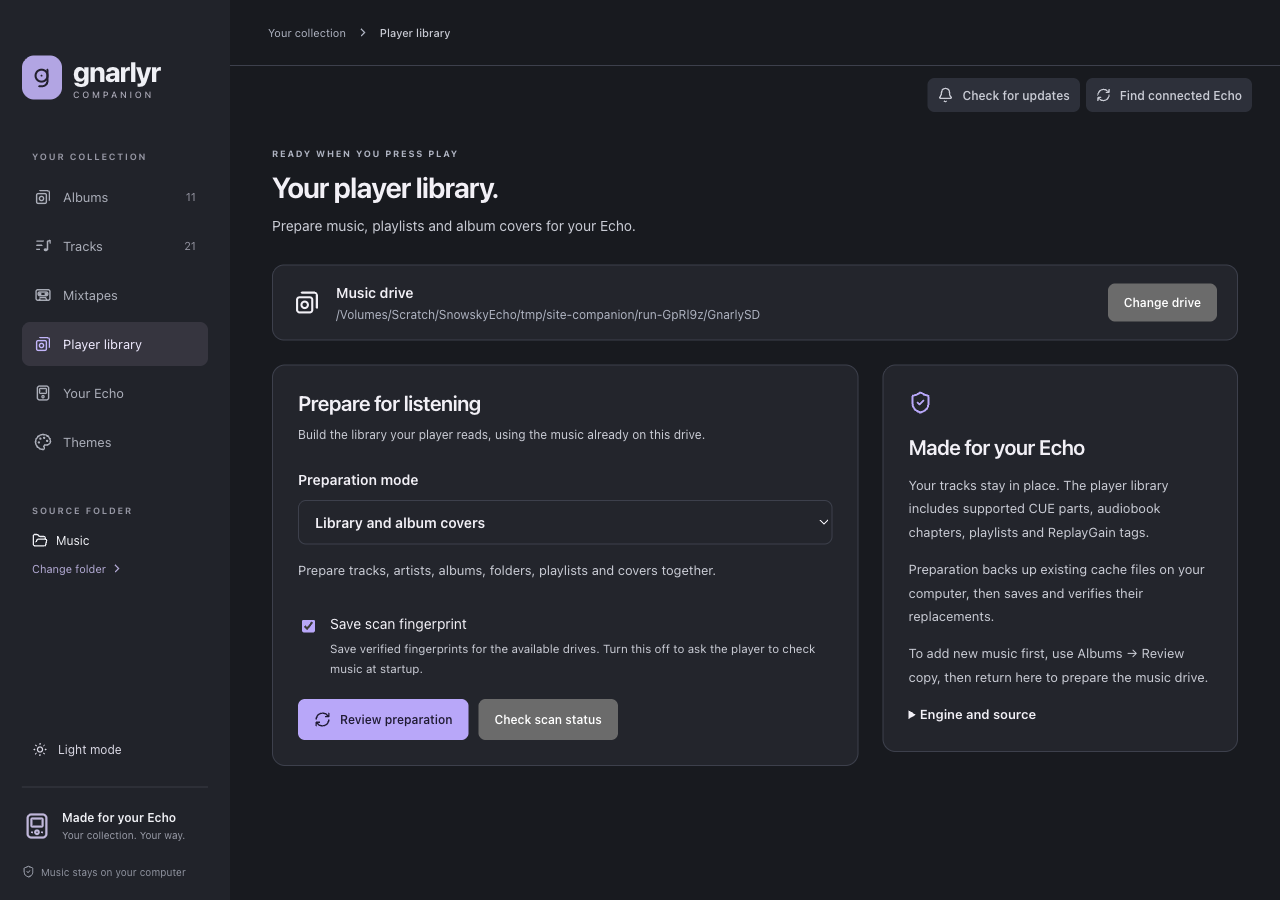
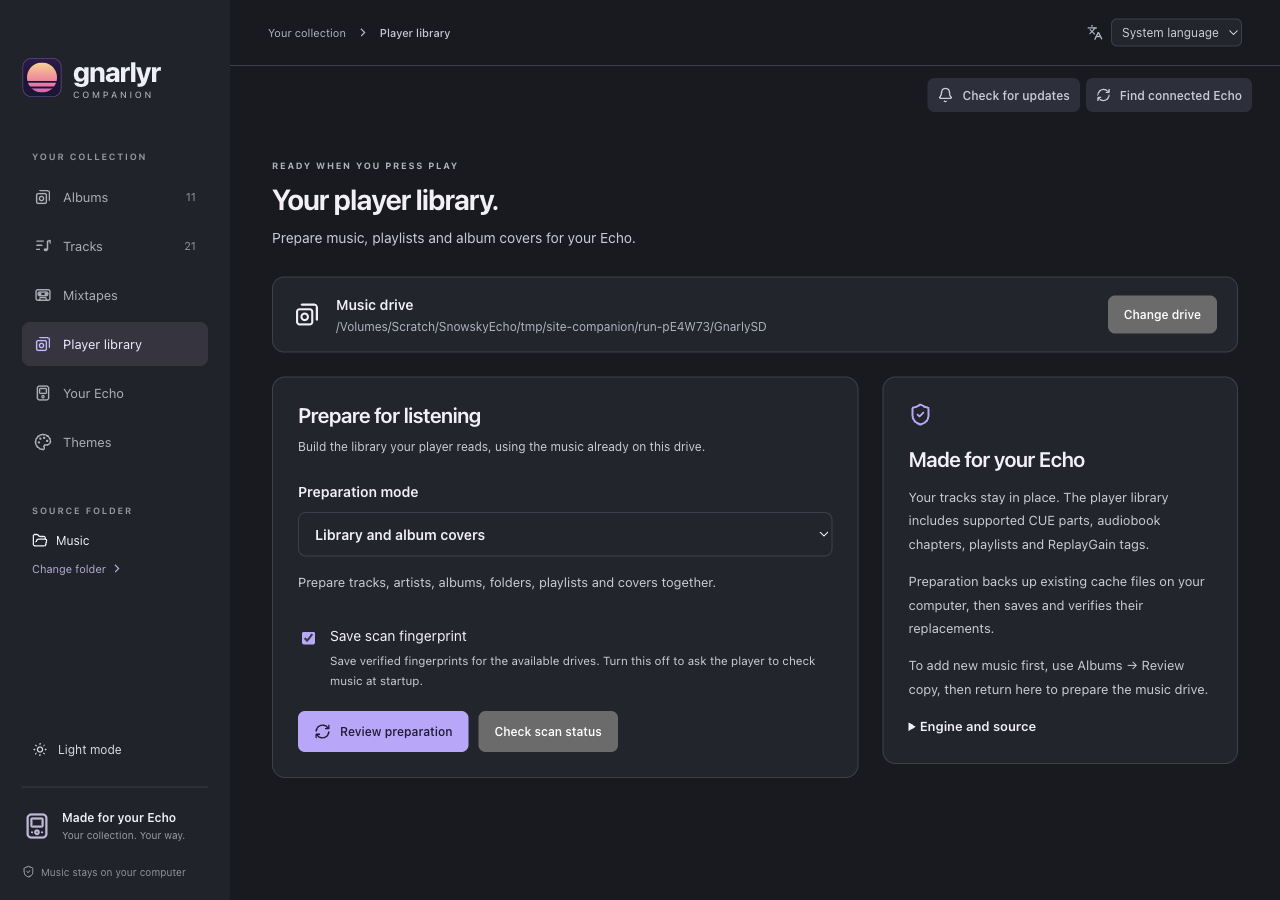
docs(site): refresh Companion screenshots with Sunset Disc branding

diff --git a/site/README.md b/site/README.md
@@ -110,7 +110,7 @@ node tools/site_companion_screenshots.mjs --source-root /path/to/gnarlyr-compani
 
 Without `--source-root`, the script uses `../gnarlyr-companion` beside this checkout.
 
-Requires Node 24+, ffmpeg and the companion’s installed dependencies. `tools/site_companion_screenshots.json` configures the viewport and twelve captured views. The script rebuilds the app, launches its actual Electron interface with isolated Scratch user data, drives the GUI and confirms that sync preview changes no files, settings stay unchanged and no firmware is staged. All twelve views render before public images are replaced. `--no-build` explicitly reuses an existing build; `--config` selects a different capture configuration. Dependencies come from the companion checkout’s existing installation. Source for the published captures is companion commit `364aeb1`, including the existing local UI styling changes present during capture.
+Requires Node 24+, ffmpeg and the companion’s installed dependencies. `tools/site_companion_screenshots.json` configures the viewport and twelve captured views. The script rebuilds the app, launches its actual Electron interface with isolated Scratch user data, drives the GUI and confirms that sync preview changes no files, settings stay unchanged and no firmware is staged. All twelve views render before public images are replaced. `--no-build` explicitly reuses an existing build; `--config` selects a different capture configuration. Dependencies come from the companion checkout’s existing installation. Source for the published captures is companion commit `ea14665`, including the local UI and language changes present during capture. The header uses the Sunset Disc, and the Themes fixture is built with the app’s hash-pinned theme tooling.
 
 The desktop app’s source is in the private `gnarlyr-desktop` repository, usually checked out as `../gnarlyr-companion`. The owner selected a separate public GitHub releases-only repository for future installers and release notes, now at https://github.com/0xdoublesharp/gnarlyr/releases. Add real, versioned installer links when packages are ready; the current page is a beta preview. The companion’s distribution terms remain separate from the firmware’s GPL license. Music copying reviews the missing files, preserves existing files and verifies each completed copy. Cancellation keeps verified files; copying does not build the playback database or eject the drives. Native mixtapes, C60/C90 cassette editing, stock-player detection, release notices, reviewed recovery, and bundled library preparation are included. The bundled engine uses library and scan format 2, includes verified internal input in the library written to the card, and supports theme-pack building and previews. Theme installation and removal depend on a confirmed supported installed image. Current firmware needs theme format 2; the unchanged Companion builder still targets format 1, so the public guide points current-firmware users to the source theme tools. Automatic sync, standard M3U import/export, and metadata editing remain outside the public claims.
 

diff --git a/docs/deployment.md b/docs/deployment.md
@@ -19,8 +19,8 @@ regenerate them with `tools/site_screenshots.py` before publishing interface cha
 | Primary URL | https://gnarlyr.com; www redirects to the apex |
 | Secondary validation URL | https://gnarlyr.apps.doublesharp.com |
 | Origin address | `159.89.222.183` |
[4 lines of base64/hex data omitted]
 
 The rollback retains the previous Priceless screenshot release.
 
